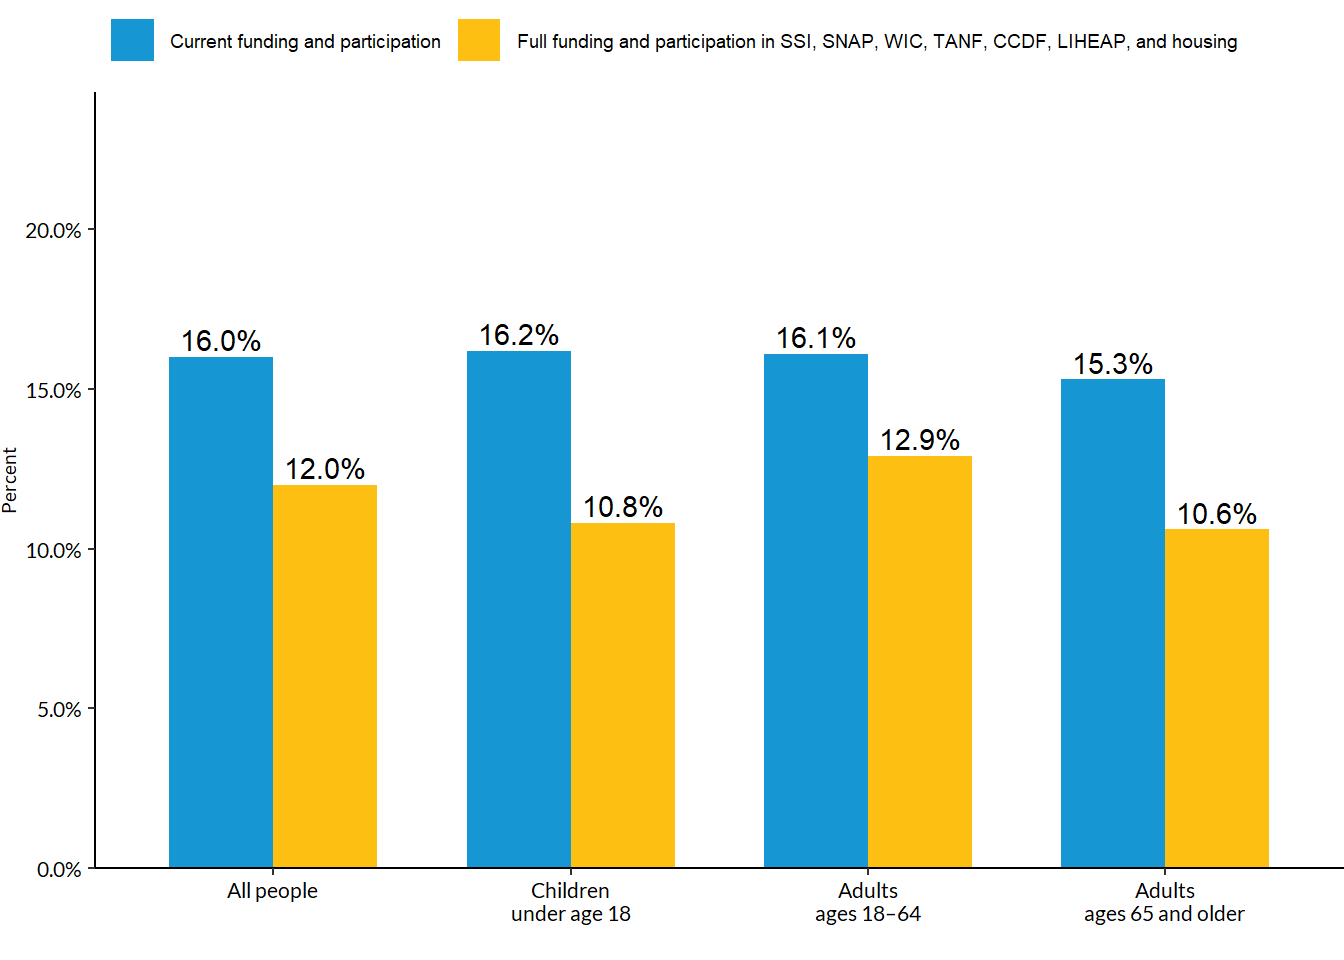
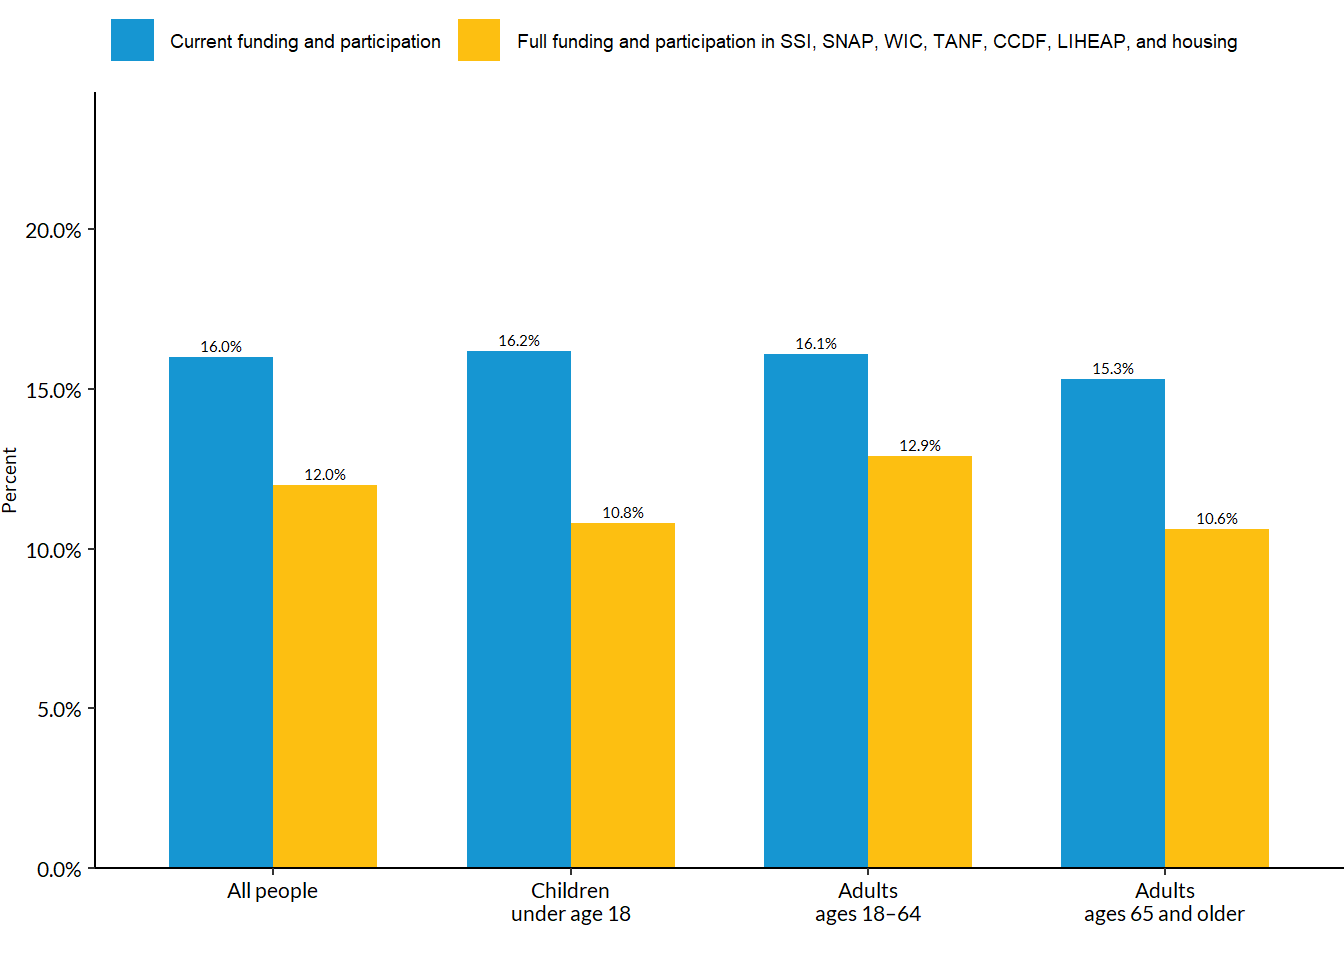
Updates to editing figures in r

diff --git a/docs/editing-figures-in-r.html b/docs/editing-figures-in-r.html
@@ -223,6 +223,8 @@ background-size: cover;
   <ul class="collapse">
   <li><a href="#opening-the-r-project" id="toc-opening-the-r-project" class="nav-link" data-scroll-target="#opening-the-r-project">Opening the R Project</a></li>
   <li><a href="#what-to-look-for-in-the-file" id="toc-what-to-look-for-in-the-file" class="nav-link" data-scroll-target="#what-to-look-for-in-the-file">What to Look for in the File</a></li>
+  <li><a href="#common-changes-to-figures" id="toc-common-changes-to-figures" class="nav-link" data-scroll-target="#common-changes-to-figures">Common Changes to Figures</a></li>
+  <li><a href="#providing-the-researchers-with-an-updated-figure" id="toc-providing-the-researchers-with-an-updated-figure" class="nav-link" data-scroll-target="#providing-the-researchers-with-an-updated-figure">Providing the Researchers with an Updated Figure</a></li>
   </ul></li>
   </ul>
 </nav>
@@ -261,31 +263,35 @@ Figure&nbsp;1
 <div class="cell">
 <details open="" class="code-fold">
 <summary>Code</summary>
-<div class="sourceCode cell-code" id="cb1"><pre class="sourceCode numberSource r code-overflow-scroll number-lines code-with-copy"><code class="sourceCode r"><span id="cb1-1"><a href="#cb1-1"></a><span class="fu">ggplot</span>(df_fig2_long, <span class="fu">aes</span>(<span class="at">x=</span> Category, <span class="at">y =</span> Value, <span class="at">fill =</span> Series)) <span class="sc">+</span></span>
-<span id="cb1-2"><a href="#cb1-2"></a>  <span class="fu">geom_bar</span>(<span class="at">stat =</span> <span class="st">"identity"</span>, <span class="at">position=</span><span class="fu">position_dodge</span>()) <span class="sc">+</span></span>
+<div class="sourceCode cell-code" id="cb1"><pre class="sourceCode numberSource r code-overflow-scroll number-lines code-with-copy"><code class="sourceCode r"><span id="cb1-1"><a href="#cb1-1"></a><span class="fu">ggplot</span>(df_fig2_long, <span class="fu">aes</span>(<span class="at">x =</span> Category, <span class="at">y =</span> Value, <span class="at">fill =</span> Series)) <span class="sc">+</span></span>
+<span id="cb1-2"><a href="#cb1-2"></a>  <span class="fu">geom_bar</span>(<span class="at">stat =</span> <span class="st">"identity"</span>, <span class="at">position =</span> <span class="fu">position_dodge</span>()) <span class="sc">+</span></span>
 <span id="cb1-3"><a href="#cb1-3"></a>  <span class="fu">labs</span>(<span class="at">y =</span> <span class="st">"Percent"</span>, <span class="at">x =</span> <span class="st">""</span>, <span class="at">fill =</span> <span class="st">""</span>) <span class="sc">+</span></span>
-<span id="cb1-4"><a href="#cb1-4"></a>  <span class="fu">scale_fill_discrete</span>(<span class="at">labels=</span><span class="fu">c</span>(<span class="st">'Current funding and participation'</span>, </span>
-<span id="cb1-5"><a href="#cb1-5"></a>                               <span class="st">'Full funding and participation in SSI, SNAP, WIC, TANF, CCDF, LIHEAP, and housing'</span>)) <span class="sc">+</span></span>
+<span id="cb1-4"><a href="#cb1-4"></a>  <span class="fu">scale_fill_discrete</span>(<span class="at">labels =</span> <span class="fu">c</span>(<span class="st">'Current funding and participation'</span>, </span>
+<span id="cb1-5"><a href="#cb1-5"></a>                                 <span class="st">'Full funding and participation in SSI, SNAP, WIC, TANF, CCDF, LIHEAP, and housing'</span>)) <span class="sc">+</span></span>
 <span id="cb1-6"><a href="#cb1-6"></a>  <span class="fu">geom_text</span>(<span class="fu">aes</span>(<span class="at">label =</span> <span class="fu">decimal_to_percentage</span>(Value)), </span>
-<span id="cb1-7"><a href="#cb1-7"></a>            <span class="at">vjust =</span> <span class="sc">-</span><span class="fl">0.3</span>, <span class="at">position =</span> <span class="fu">position_dodge2</span>(<span class="at">width =</span> <span class="fl">0.7</span>, <span class="at">padding =</span> <span class="fl">0.5</span>)) <span class="sc">+</span></span>
-<span id="cb1-8"><a href="#cb1-8"></a>  <span class="fu">theme_bw</span>() <span class="sc">+</span></span>
-<span id="cb1-9"><a href="#cb1-9"></a>  <span class="fu">theme</span>(<span class="at">legend.position =</span> <span class="st">"top"</span>, </span>
-<span id="cb1-10"><a href="#cb1-10"></a>        <span class="at">legend.justification =</span> <span class="st">"left"</span>, </span>
-<span id="cb1-11"><a href="#cb1-11"></a>        <span class="at">legend.margin =</span> <span class="fu">margin</span>(<span class="at">t =</span> <span class="sc">-</span><span class="dv">8</span>), </span>
-<span id="cb1-12"><a href="#cb1-12"></a>        <span class="at">plot.margin =</span> <span class="fu">unit</span>(<span class="fu">c</span>(<span class="dv">1</span>, <span class="dv">0</span>, <span class="dv">0</span>, <span class="dv">0</span>), <span class="st">"lines"</span>), </span>
-<span id="cb1-13"><a href="#cb1-13"></a>        <span class="at">axis.title.y =</span> <span class="fu">element_text</span>(<span class="at">size =</span> <span class="dv">7</span>, <span class="at">family=</span><span class="st">"Lato"</span>, <span class="at">colour =</span> <span class="st">"black"</span>), </span>
-<span id="cb1-14"><a href="#cb1-14"></a>        <span class="at">axis.text.x =</span> <span class="fu">element_text</span>(<span class="at">size =</span> <span class="dv">8</span>, <span class="at">family=</span><span class="st">"Lato"</span>, <span class="at">colour =</span> <span class="st">"black"</span>), </span>
-<span id="cb1-15"><a href="#cb1-15"></a>        <span class="at">axis.text.y =</span> <span class="fu">element_text</span>(<span class="at">size =</span> <span class="dv">8</span>, <span class="at">family=</span><span class="st">"Lato"</span>, <span class="at">colour =</span> <span class="st">"black"</span>), </span>
-<span id="cb1-16"><a href="#cb1-16"></a>        <span class="at">legend.text =</span> <span class="fu">element_text</span>(<span class="at">size=</span><span class="dv">7</span>), </span>
-<span id="cb1-17"><a href="#cb1-17"></a>        <span class="at">legend.title =</span> <span class="fu">element_text</span>(<span class="at">size=</span><span class="dv">7</span>), </span>
-<span id="cb1-18"><a href="#cb1-18"></a>        <span class="at">panel.border =</span> <span class="fu">element_blank</span>(), </span>
-<span id="cb1-19"><a href="#cb1-19"></a>        <span class="at">panel.grid.major =</span> <span class="fu">element_blank</span>(),</span>
-<span id="cb1-20"><a href="#cb1-20"></a>        <span class="at">panel.grid.minor =</span> <span class="fu">element_blank</span>(), </span>
-<span id="cb1-21"><a href="#cb1-21"></a>        <span class="at">axis.line =</span> <span class="fu">element_line</span>(<span class="at">colour =</span> <span class="st">"black"</span>)) <span class="sc">+</span></span>
-<span id="cb1-22"><a href="#cb1-22"></a>  <span class="fu">scale_y_continuous</span>(<span class="at">expand =</span> <span class="fu">expansion</span>(<span class="at">mult =</span> <span class="dv">0</span>), </span>
-<span id="cb1-23"><a href="#cb1-23"></a>                     <span class="at">limits=</span><span class="fu">c</span>(<span class="dv">0</span>, <span class="fu">max</span>(df_fig2_long<span class="sc">$</span>Value)<span class="sc">*</span><span class="fl">1.5</span>), </span>
-<span id="cb1-24"><a href="#cb1-24"></a>                     <span class="at">labels =</span> decimal_to_percentage) <span class="sc">+</span></span>
-<span id="cb1-25"><a href="#cb1-25"></a>  <span class="fu">guides</span>(<span class="at">fill =</span> <span class="fu">guide_legend</span>(<span class="at">title =</span> <span class="st">""</span>))</span></code><button title="Copy to Clipboard" class="code-copy-button"><i class="bi"></i></button></pre></div>
+<span id="cb1-7"><a href="#cb1-7"></a>            <span class="at">vjust =</span> <span class="sc">-</span><span class="fl">0.5</span>, </span>
+<span id="cb1-8"><a href="#cb1-8"></a>            <span class="at">position =</span> <span class="fu">position_dodge2</span>(<span class="at">width =</span> <span class="fl">0.7</span>, <span class="at">padding =</span> <span class="fl">0.5</span>),</span>
+<span id="cb1-9"><a href="#cb1-9"></a>            <span class="at">size =</span> <span class="dv">2</span>,</span>
+<span id="cb1-10"><a href="#cb1-10"></a>            <span class="at">color =</span> <span class="st">"black"</span>, </span>
+<span id="cb1-11"><a href="#cb1-11"></a>            <span class="at">family =</span> <span class="st">"Lato"</span>) <span class="sc">+</span></span>
+<span id="cb1-12"><a href="#cb1-12"></a>  <span class="fu">scale_y_continuous</span>(<span class="at">expand =</span> <span class="fu">expansion</span>(<span class="at">mult =</span> <span class="dv">0</span>), </span>
+<span id="cb1-13"><a href="#cb1-13"></a>                     <span class="at">limits =</span> <span class="fu">c</span>(<span class="dv">0</span>, <span class="fu">max</span>(df_fig2_long<span class="sc">$</span>Value) <span class="sc">*</span> <span class="fl">1.5</span>), </span>
+<span id="cb1-14"><a href="#cb1-14"></a>                     <span class="at">labels =</span> decimal_to_percentage) <span class="sc">+</span></span>
+<span id="cb1-15"><a href="#cb1-15"></a>  <span class="fu">theme_bw</span>() <span class="sc">+</span></span>
+<span id="cb1-16"><a href="#cb1-16"></a>  <span class="fu">theme</span>(<span class="at">legend.position =</span> <span class="st">"top"</span>, </span>
+<span id="cb1-17"><a href="#cb1-17"></a>        <span class="at">legend.justification =</span> <span class="st">"left"</span>, </span>
+<span id="cb1-18"><a href="#cb1-18"></a>        <span class="at">legend.margin =</span> <span class="fu">margin</span>(<span class="at">t =</span> <span class="sc">-</span><span class="dv">8</span>), </span>
+<span id="cb1-19"><a href="#cb1-19"></a>        <span class="at">plot.margin =</span> <span class="fu">unit</span>(<span class="fu">c</span>(<span class="dv">1</span>, <span class="dv">0</span>, <span class="dv">0</span>, <span class="dv">0</span>), <span class="st">"lines"</span>), </span>
+<span id="cb1-20"><a href="#cb1-20"></a>        <span class="at">axis.title.y =</span> <span class="fu">element_text</span>(<span class="at">size =</span> <span class="dv">7</span>, <span class="at">family =</span> <span class="st">"Lato"</span>, <span class="at">colour =</span> <span class="st">"black"</span>), </span>
+<span id="cb1-21"><a href="#cb1-21"></a>        <span class="at">axis.text.x =</span> <span class="fu">element_text</span>(<span class="at">size =</span> <span class="dv">8</span>, <span class="at">family =</span> <span class="st">"Lato"</span>, <span class="at">colour =</span> <span class="st">"black"</span>), </span>
+<span id="cb1-22"><a href="#cb1-22"></a>        <span class="at">axis.text.y =</span> <span class="fu">element_text</span>(<span class="at">size =</span> <span class="dv">8</span>, <span class="at">family =</span> <span class="st">"Lato"</span>, <span class="at">colour =</span> <span class="st">"black"</span>), </span>
+<span id="cb1-23"><a href="#cb1-23"></a>        <span class="at">legend.text =</span> <span class="fu">element_text</span>(<span class="at">size =</span> <span class="dv">7</span>), </span>
+<span id="cb1-24"><a href="#cb1-24"></a>        <span class="at">legend.title =</span> <span class="fu">element_text</span>(<span class="at">size =</span> <span class="dv">7</span>), </span>
+<span id="cb1-25"><a href="#cb1-25"></a>        <span class="at">panel.border =</span> <span class="fu">element_blank</span>(), </span>
+<span id="cb1-26"><a href="#cb1-26"></a>        <span class="at">panel.grid.major =</span> <span class="fu">element_blank</span>(),</span>
+<span id="cb1-27"><a href="#cb1-27"></a>        <span class="at">panel.grid.minor =</span> <span class="fu">element_blank</span>(), </span>
+<span id="cb1-28"><a href="#cb1-28"></a>        <span class="at">axis.line =</span> <span class="fu">element_line</span>(<span class="at">colour =</span> <span class="st">"black"</span>)) <span class="sc">+</span></span>
+<span id="cb1-29"><a href="#cb1-29"></a>  <span class="fu">guides</span>(<span class="at">fill =</span> <span class="fu">guide_legend</span>(<span class="at">title =</span> <span class="st">""</span>))</span></code><button title="Copy to Clipboard" class="code-copy-button"><i class="bi"></i></button></pre></div>
 </details>
 <div class="cell-output-display">
 <div>
@@ -295,6 +301,41 @@ Figure&nbsp;1
 </div>
 </div>
 </div>
+<p>For reference,here’s what the chart would look like if no theme or style parameters were applied:</p>
+<div class="cell">
+<details open="" class="code-fold">
+<summary>Code</summary>
+<div class="sourceCode cell-code" id="cb2"><pre class="sourceCode numberSource r code-overflow-scroll number-lines code-with-copy"><code class="sourceCode r"><span id="cb2-1"><a href="#cb2-1"></a><span class="fu">ggplot</span>(df_fig2_long, <span class="fu">aes</span>(<span class="at">x=</span> Category, <span class="at">y =</span> Value, <span class="at">fill =</span> Series)) <span class="sc">+</span></span>
+<span id="cb2-2"><a href="#cb2-2"></a>  <span class="fu">geom_bar</span>(<span class="at">stat =</span> <span class="st">"identity"</span>) <span class="sc">+</span> </span>
+<span id="cb2-3"><a href="#cb2-3"></a>  <span class="fu">labs</span>(<span class="at">y =</span> <span class="st">"Percent"</span>, <span class="at">x =</span> <span class="st">""</span>, <span class="at">fill =</span> <span class="st">""</span>)</span></code><button title="Copy to Clipboard" class="code-copy-button"><i class="bi"></i></button></pre></div>
+</details>
+<div class="cell-output-display">
+<div>
+<figure class="figure">
+<p><img src="editing-figures-in-r_files/figure-html/chart-ggplot-2-1.png" class="img-fluid figure-img" width="672"></p>
+</figure>
+</div>
+</div>
+</div>
+</section>
+<section id="common-changes-to-figures" class="level3">
+<h3 class="anchored" data-anchor-id="common-changes-to-figures">Common Changes to Figures</h3>
+<p>Below you will find common changes that need to be made to figures and how to change them in RStudio.</p>
+<section id="capitalization-and-hypenation-changes-in-data-labels-legend-text-and-axis-text" class="level4">
+<h4 class="anchored" data-anchor-id="capitalization-and-hypenation-changes-in-data-labels-legend-text-and-axis-text">Capitalization and hypenation changes in data labels, legend text, and axis text</h4>
+</section>
+<section id="color-changes-for-data-labels-legend-text-and-axis-text" class="level4">
+<h4 class="anchored" data-anchor-id="color-changes-for-data-labels-legend-text-and-axis-text">Color changes for data labels, legend text, and axis text</h4>
+</section>
+<section id="low-quality-exported-images" class="level4">
+<h4 class="anchored" data-anchor-id="low-quality-exported-images">Low-quality exported images</h4>
+</section>
+<section id="positioning-of-legend" class="level4">
+<h4 class="anchored" data-anchor-id="positioning-of-legend">Positioning of legend</h4>
+</section>
+</section>
+<section id="providing-the-researchers-with-an-updated-figure" class="level3">
+<h3 class="anchored" data-anchor-id="providing-the-researchers-with-an-updated-figure">Providing the Researchers with an Updated Figure</h3>
 
 
 </section>

diff --git a/docs/index.html b/docs/index.html
@@ -259,12 +259,12 @@ background-size: cover;
 <!-- Intro -->
 <section id="using-this-resource" class="level1 added-space">
 <h1>Using This Resource</h1>
-<p>Although the standard research product at Urban is still made with word processing software, research products genereated in other programs, like RStudio and its associated packages, are becoming more ubiquitous because of their clear advantages in chart and table generation, citation management, and reproducibility. This guide is for those navigating text, charts, tables, and graphics in RStudio and GitHub. It cuts through the technicalities to give you a practical approach to easily manuever through and edit files, which will streamline the production of technical documents while avoiding ever-too-common copy-and-paste errors.</p>
+<p>Although the standard research product at Urban is still made with word-processing software, research products genereated in other programs, like RStudio and its associated packages, are becoming more ubiquitous because of their clear advantages in chart and table generation, citation management, and reproducibility. This guide is for those navigating text, charts, tables, and graphics in RStudio and GitHub. It cuts through the technicalities to give you a practical approach to easily manuever through and edit files, which will streamline the production of technical documents while avoiding ever-too-common copy-and-paste errors.</p>
 <p>On this page, you will find an introduction to the various software and programming languages used at Urban to give you brief, relevant background information. For a direct how-to guide on using any of these programs in the context of editing, see the menu to navigate to the page you are looking for.</p>
 </section>
 <section id="what-are-r-latex-quarto-and-github" class="level2">
 <h2 class="anchored" data-anchor-id="what-are-r-latex-quarto-and-github">What Are R, LaTeX, Quarto, and GitHub?</h2>
-<p>In research institutions like the Urban Institute, R, LaTeX, and Quarto are powerful tools used together or seperately to produce research products efficiency, with reproducibility and presentation in mind. They are all opensource and free to the public at all levels. Described below is how each piece of the puzzle fits together. Let’s start by looking at <a href="#fig-flowchart-1" class="quarto-xref">figure&nbsp;1</a>.</p>
+<p>In research institutions like the Urban Institute, R, LaTeX, Quarto, and GitHub are powerful tools used together or seperately to produce research products efficiency, with reproducibility and presentation in mind. They are all opensource to some degree and R, LaTeX, and Quarto are free to the public at all tiers. Described below is how each piece of the puzzle fits together. Let’s start by looking at <a href="#fig-flowchart-1" class="quarto-xref">figure&nbsp;1</a>.</p>
 <!-- Figure -->
 <div id="fig-flowchart-1" class="quarto-figure quarto-figure-center quarto-float anchored">
 <figure class="quarto-float quarto-float-fig figure">

diff --git a/docs/styles.css b/docs/styles.css
@@ -173,7 +173,7 @@ p {
   font-family: 'Lato', sans-serif;
   font-weight: 400;
   color: #000000;
-  text-indent: 2em;
+  text-indent: 1.25em;
 }
 
 a {

diff --git a/styles.css b/styles.css
@@ -173,7 +173,7 @@ p {
   font-family: 'Lato', sans-serif;
   font-weight: 400;
   color: #000000;
-  text-indent: 2em;
+  text-indent: 1.25em;
 }
 
 a {
